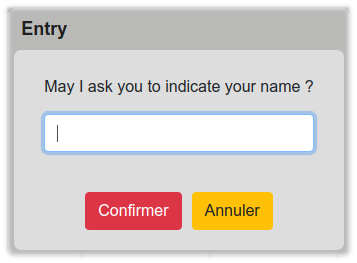
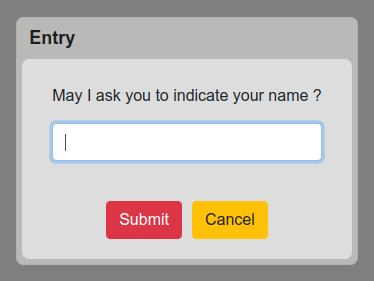
updated examples in README

diff --git a/dgui.ts b/dgui.ts
@@ -136,7 +136,7 @@ class Button {
     this.parent = parent;
     this.elm = document.createElement("button");
     this.elm.setAttribute("class", "btn "+ button_BScolor_class);
-    this.elm.setAttribute("style", "text-align: center; margin-left: 5px; margin-right: 5px");
+    this.elm.setAttribute("style", "text-align: center; margin-left: 5px; margin-right: 5px; min-width: 70px");
     this.elm.textContent = label;
   }
 
@@ -1306,7 +1306,7 @@ export function alert(message: string | Error, title?: string, callback?: Functi
   new modal({
     title: title || "Information",
     fields: [{type: "message", message: message}],
-    footer: [{action: "quit", value: "D'accord", BSClass: "btn-success"}]
+    footer: [{action: "quit", value: "Ok", BSClass: "btn-success"}]
   }, callback);
 }
 
@@ -1320,7 +1320,7 @@ export function confirm(message: string, title="Confirm", callback: Function) {
     fields: [{type: "message", message: message}],
     footer: [
       {action: "confirm", value: "Confirm", BSClass: "btn-danger"},
-      {action: "abort", value: "Abort", BSClass: "btn-warning"}
+      {action: "abort", value: "Cancel", BSClass: "btn-warning"}
     ]
   }, callback);
 }
@@ -1330,8 +1330,8 @@ export function prompt(message, title="Entry", callback, maxWidth=500) {
     title: title,
     fields: [{type: "message", message: message}, {type: "text"}],
     footer: [
-      {action: "submit", value: "Confirmer", BSClass: "btn-danger"},
-      {action: "quit", value: "Annuler", BSClass: "btn-warning"}
+      {action: "submit", value: "Submit", BSClass: "btn-danger"},
+      {action: "quit", value: "Cancel", BSClass: "btn-warning"}
     ],
     display: {maxWidth: maxWidth}
   }, callback);
